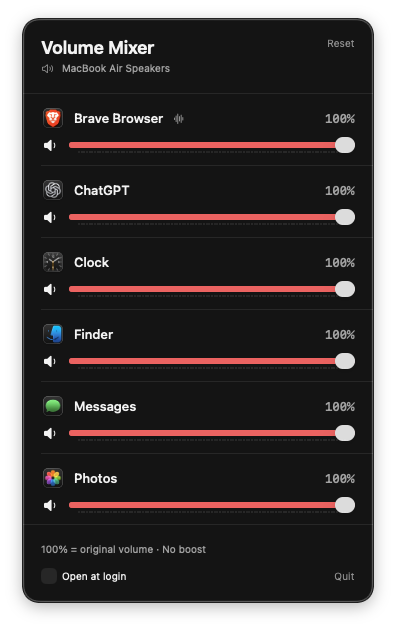
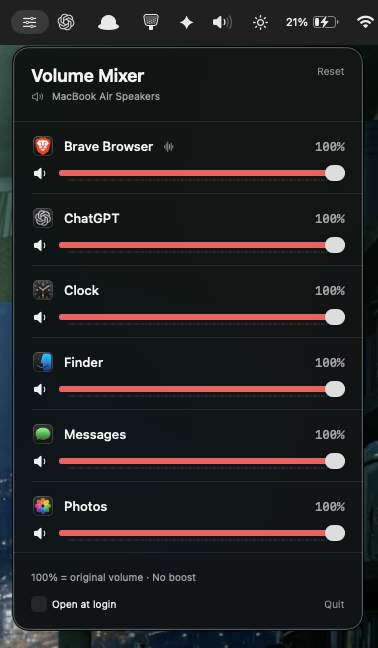
docs: replace screenshot to include macOS menu bar

diff --git a/README.md b/README.md
@@ -5,7 +5,7 @@ A simple macOS menu-bar app for controlling the volume of individual open apps. 
 **Every app starts at 100%. No amplification, equalizer, or audio driver.**
 
 <p align="center">
-  <img src="docs/images/volume-mixer.png" alt="Volume Mixer menu-bar panel showing open apps with individual volume sliders at 100 percent" width="396">
+  <img src="docs/images/volume-mixer.png" alt="Volume Mixer icon in the macOS menu bar with its open panel showing individual app volume sliders" width="378">
 </p>
 
 ## Features
